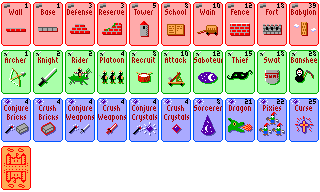
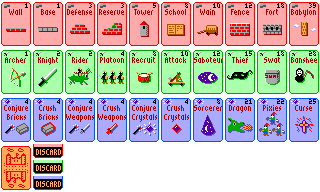
Show when a card has been discarded
A 'DISCARD' banner is added to the bottom of the card.

Changed region(s): [[0.0938, 0.75, 0.2188, 1.0]]

diff --git a/source/main.c b/source/main.c
@@ -139,10 +139,48 @@ static inline void clear_background (void)
  */
 static inline void render_card_as_sprite_prepare (card_t card)
 {
-    for (uint8_t i = 0; i < 24; i++)
+    if (card & DISCARD_BIT)
     {
-        uint16_t pattern = cards_panels [card] [i] << 3;
-        SMS_loadTiles (&cards_patterns [pattern], card_sprite [i], 32);
+        card = card & CARD_BITS;
+
+        const uint16_t *discard_panels = (card < 10) ? &cards_panels [CARD_DISCARD] [0] :
+                                         (card < 20) ? &cards_panels [CARD_DISCARD] [8] :
+                                                       &cards_panels [CARD_DISCARD] [16];
+
+        /* Top section (unchanged) */
+        for (uint8_t i = 0; i < 16; i++)
+        {
+            uint16_t pattern = cards_panels [card] [i] << 3;
+            SMS_loadTiles (&cards_patterns [pattern], card_sprite [i] & 0x01ff, 32);
+        }
+
+        /* Middle section (half-and-half) */
+        for (uint8_t i = 0; i < 4; i++)
+        {
+            uint32_t pattern_buffer [8];
+            uint16_t card_pattern = cards_panels [card] [i + 16] << 3;
+            uint16_t discard_pattern = discard_panels [i] << 3;
+
+            /* Three lines from the card pattern, and five lines from the discard pattern */
+            memcpy (&pattern_buffer [0], &cards_patterns [card_pattern    + 0], 3 << 2);
+            memcpy (&pattern_buffer [3], &cards_patterns [discard_pattern + 3], 5 << 2);
+            SMS_loadTiles (pattern_buffer, card_sprite [i + 16] & 0x01ff, 32);
+        }
+
+        /* Bottom section (discard-text) */
+        for (uint8_t i = 4; i < 8; i++)
+        {
+            uint16_t pattern = discard_panels [i] << 3;
+            SMS_loadTiles (&cards_patterns [pattern], card_sprite [i + 16] & 0x01ff, 32);
+        }
+    }
+    else
+    {
+        for (uint8_t i = 0; i < 24; i++)
+        {
+            uint16_t pattern = cards_panels [card] [i] << 3;
+            SMS_loadTiles (&cards_patterns [pattern], card_sprite [i], 32);
+        }
     }
 }
 
@@ -158,9 +196,9 @@ static inline void render_card_as_sprite (uint16_t x, uint16_t y)
     for (uint8_t panel_y = 0; panel_y < 6; panel_y++)
     for (uint8_t panel_x = 0; panel_x < 4; panel_x++)
     {
-        /* TODO: The sprite attribute table only allows an 8-bit pattern index.
-         *       The cards use more than 256 patterns, so the particular card
-         *       we want to render may need to be copied to a lower VRAM address. */
+        /* The sprite attribute table only allows an 8-bit pattern index.
+         * The cards use more than 256 patterns, so the particular card
+         * we want to render needs to be copied to a lower VRAM address. */
         SMS_addSprite (x + (panel_x << 3),
                        y + (panel_y << 3), card_sprite [pattern_index++]);
 
@@ -195,13 +233,52 @@ void render_card_as_background (uint8_t x, uint8_t y, card_t card, uint8_t slot)
          * in this buffer slot, then update the buffer. */
         if (cache [slot] != card)
         {
-            /* copy pattern bytes to VRAM */
-            for (uint8_t i = 0; i < 24; i++)
-            {
-                uint16_t pattern = cards_panels [card] [i] << 3;
-                SMS_loadTiles (&cards_patterns [pattern], card_buffer [slot][i] & 0x01ff, 32);
-            }
             cache [slot] = card;
+
+            if (card & DISCARD_BIT)
+            {
+                card = card & CARD_BITS;
+
+                const uint16_t *discard_panels = (card < 10) ? &cards_panels [CARD_DISCARD] [0] :
+                                                 (card < 20) ? &cards_panels [CARD_DISCARD] [8] :
+                                                               &cards_panels [CARD_DISCARD] [16];
+
+                /* Top section (unchanged) */
+                for (uint8_t i = 0; i < 16; i++)
+                {
+                    uint16_t pattern = cards_panels [card] [i] << 3;
+                    SMS_loadTiles (&cards_patterns [pattern], card_buffer [slot][i] & 0x01ff, 32);
+                }
+
+                /* Middle section (half-and-half) */
+                for (uint8_t i = 0; i < 4; i++)
+                {
+                    uint32_t pattern_buffer [8];
+                    uint16_t card_pattern = cards_panels [card] [i + 16] << 3;
+                    uint16_t discard_pattern = discard_panels [i] << 3;
+
+                    /* Three lines from the card pattern, and five lines from the discard pattern */
+                    memcpy (&pattern_buffer [0], &cards_patterns [card_pattern    + 0], 3 << 2);
+                    memcpy (&pattern_buffer [3], &cards_patterns [discard_pattern + 3], 5 << 2);
+                    SMS_loadTiles (pattern_buffer, card_buffer [slot][i + 16] & 0x01ff, 32);
+                }
+
+                /* Bottom section (discard-text) */
+                for (uint8_t i = 4; i < 8; i++)
+                {
+                    uint16_t pattern = discard_panels [i] << 3;
+                    SMS_loadTiles (&cards_patterns [pattern], card_buffer [slot][i + 16] & 0x01ff, 32);
+                }
+            }
+            else
+            {
+                /* copy pattern bytes to VRAM */
+                for (uint8_t i = 0; i < 24; i++)
+                {
+                    uint16_t pattern = cards_panels [card] [i] << 3;
+                    SMS_loadTiles (&cards_patterns [pattern], card_buffer [slot][i] & 0x01ff, 32);
+                }
+            }
         }
 
         SMS_loadTileMapArea (x, y, card_buffer [slot], 4, 6);

diff --git a/source/game.c b/source/game.c
@@ -307,10 +307,10 @@ static void discard_card (uint8_t slot)
     card_t card = hands [player] [slot];
 
     /* Animate */
-    card_slide_from (slot << 5, HAND_Y_SPRITE, card);
+    card_slide_from (slot << 5, HAND_Y_SPRITE, card | DISCARD_BIT);
     render_card_as_background (slot << 2, HAND_Y_TILE, CARD_NONE, slot);
     card_slide_to (DISCARD_X_SPRITE, DISCARD_Y_SPRITE);
-    render_card_as_background (DISCARD_X_TILE, DISCARD_Y_TILE, card, 8);
+    render_card_as_background (DISCARD_X_TILE, DISCARD_Y_TILE, card | DISCARD_BIT, 8);
     card_slide_done ();
 
     empty_slot = slot;

diff --git a/source/cards.h b/source/cards.h
@@ -19,6 +19,8 @@
 #define DISCARD_X_SPRITE 128
 #define DISCARD_Y_SPRITE 0
 
+#define CARD_BITS   0x1f
+#define DISCARD_BIT 0x80
 
 typedef enum card_e
 {
@@ -56,5 +58,6 @@ typedef enum card_e
     CARD_CURSE,
 
     CARD_BACK,
+    CARD_DISCARD,
     CARD_NONE
 } card_t;
